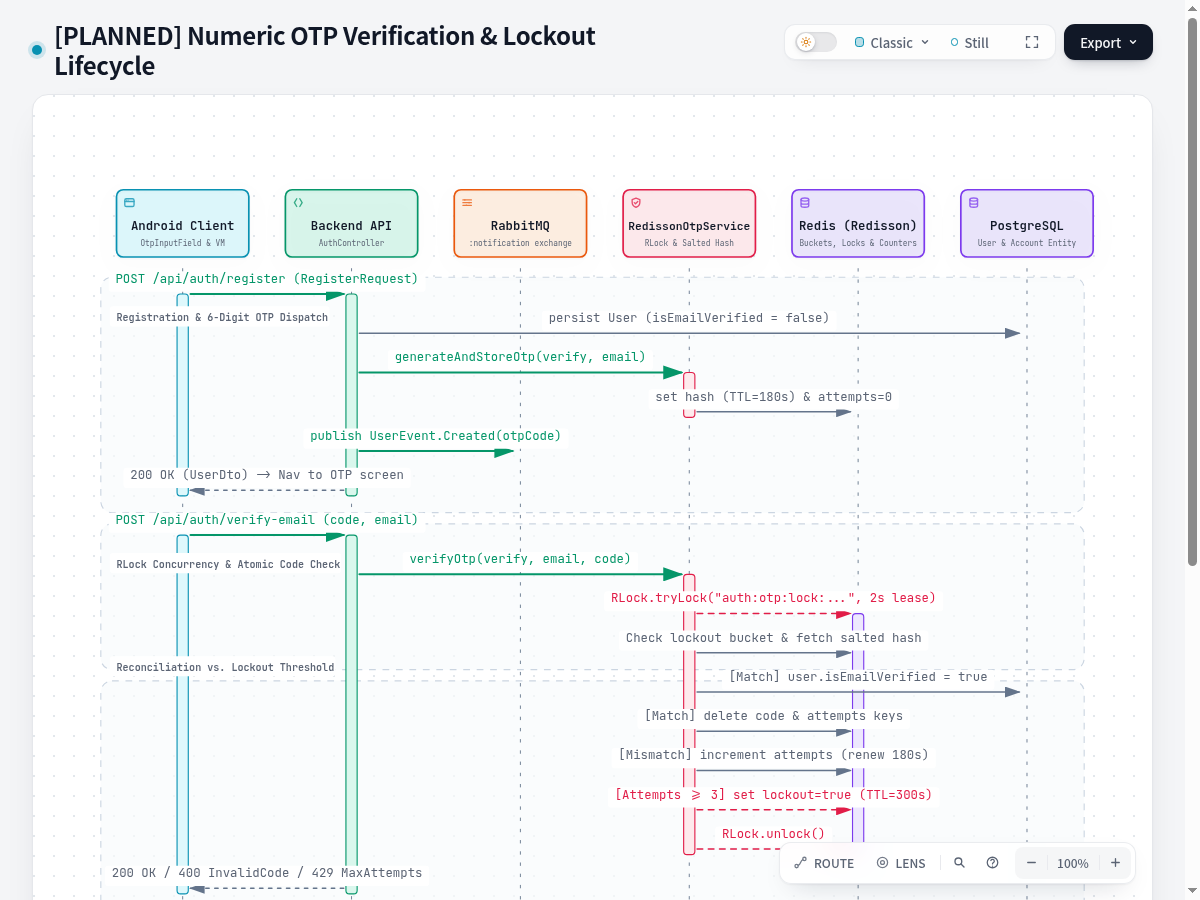
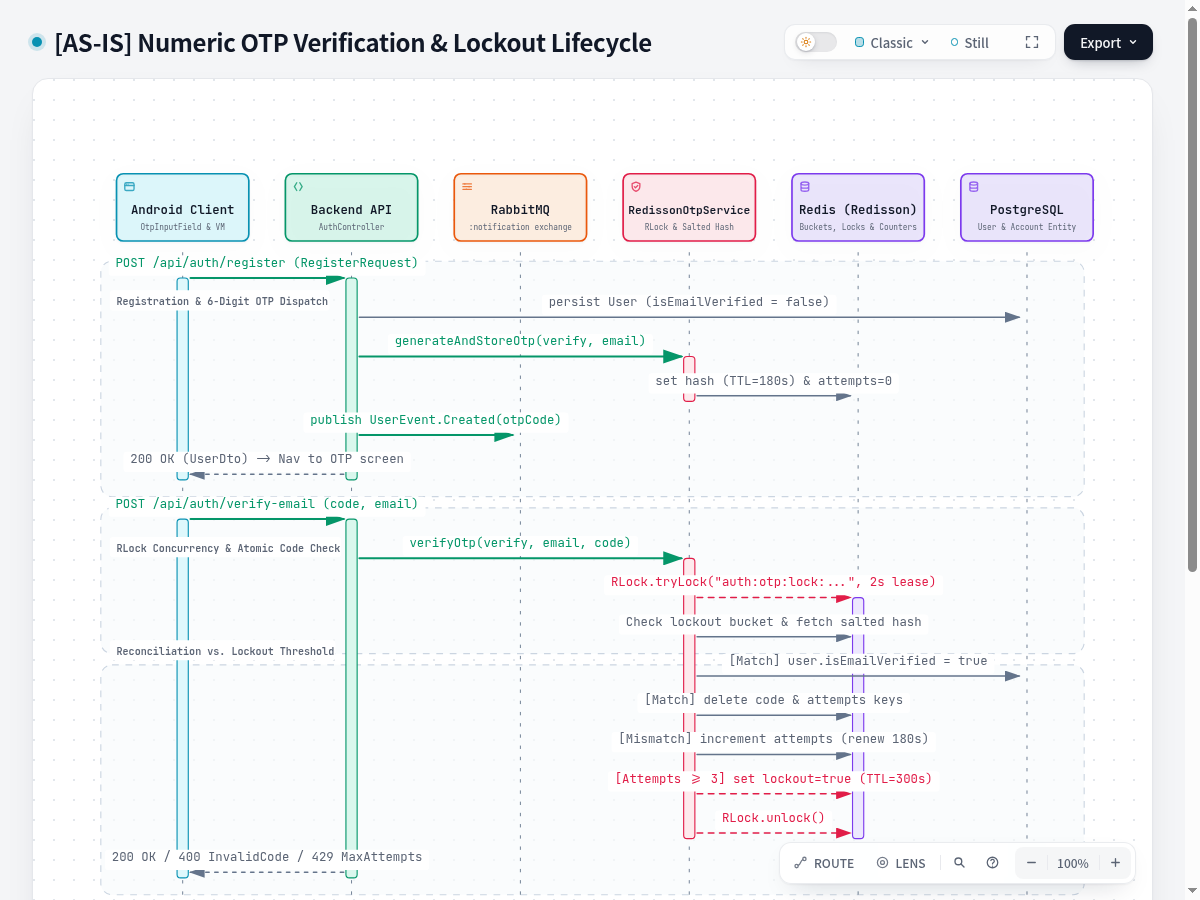
docs(otp): mark OTP verification design Implemented and sync AS-IS diagram
- Prune Detailed Implementation Plan and Verification Plan scaffolding from otp-email-verification.md, update status to Implemented, and align lockout/theme wording.
- Flip otp-verification.sequence.archify.json from [PLANNED] to [AS-IS] and re-render HTML and dark/light PNG assets.
- Update OTP sequence and design status badges to [AS-IS] / Implemented in docs/README.md.

Assisted-by: Gemini 4 Hydrogen

diff --git a/docs/architecture/interactive/flows/otp-verification.html b/docs/architecture/interactive/flows/otp-verification.html
@@ -5,7 +5,7 @@
   <meta name="viewport" content="width=device-width, initial-scale=1.0">
   <meta name="generator" content="archify 3.2.0">
   <meta name="archify-reader-contract" content="declared-wide-v1">
-  <title>[PLANNED] Numeric OTP Verification &amp; Lockout Lifecycle Diagram</title>
+  <title>[AS-IS] Numeric OTP Verification &amp; Lockout Lifecycle Diagram</title>
   <script>
     // Resolve the theme before first paint so light-preference users don't
     // see a dark flash. The toolbar script below re-applies with UI state.
@@ -5194,7 +5194,7 @@ OTHER DEALINGS IN THE FONT SOFTWARE.
            data-preset-badge-blueprint="BLUEPRINT / REV 01"
            data-preset-badge-editorial="EDITORIAL / FIELD NOTE">
         <div class="pulse-dot"></div>
-        <h1>[PLANNED] Numeric OTP Verification &amp; Lockout Lifecycle</h1>
+        <h1>[AS-IS] Numeric OTP Verification &amp; Lockout Lifecycle</h1>
       </div>
     </div>
 
@@ -5204,7 +5204,7 @@ OTHER DEALINGS IN THE FONT SOFTWARE.
     <div class="diagram-container" data-detail-level="read"
          data-preset-badge-editorial-plate="ARCHIFY / PLATE 04">
       <svg viewBox="0 0 973 813" data-sequence-column-fit="spread" data-reader-fit="width-first" role="img" lang="en" aria-labelledby="archify-diagram-title archify-diagram-description" data-animation="trace" data-preset="classic" data-quality-profile="showcase" data-motion-choreography="sequence">
-        <title id="archify-diagram-title">[PLANNED] Numeric OTP Verification &amp; Lockout Lifecycle</title>
+        <title id="archify-diagram-title">[AS-IS] Numeric OTP Verification &amp; Lockout Lifecycle</title>
         <desc id="archify-diagram-description">A sequence diagram generated by Archify.</desc>
         <!-- Definitions -->
         <defs>

diff --git a/docs/designs/otp-email-verification.md b/docs/designs/otp-email-verification.md
@@ -1,7 +1,7 @@
 # 6-Digit OTP Email Verification & Password Reset Migration
 
 * **Author:** Nero Nguyen
-* **Status:** In Review
+* **Status:** Implemented
 * **Date:** 2026-11-12
 * **Target SSOT:** `KMP-ChatContract/docs/designs/otp-email-verification.md`
 
@@ -76,7 +76,7 @@ database tables and background cleanup jobs.
 * **G5 (Token Revocation on Password Reset):** Atomically revoke all active refresh tokens in `RefreshTokenRepository`
   when a password reset succeeds, forcing re-authentication across all active client devices.
 * **G6 (Quiet Messaging UI & Lifecycle Survivability):** Build a 6-cell segmented OTP input component in
-  `Android-ChatApp` matching MCP Stitch *Quiet Messaging* design tokens. Persist cooldown target timestamps in
+  `Android-ChatApp` matching *Quiet Messaging* design tokens (`design-system.md`). Persist cooldown target timestamps in
   `SavedStateHandle` to survive configuration changes and process death, with zero silent network retries.
 * **G7 (Cross-Repo SSOT Governance):** Maintain the master EGM design specification in
   `KMP-ChatContract/docs/designs/otp-email-verification.md` and sequence diagram in
@@ -98,7 +98,7 @@ database tables and background cleanup jobs.
 ## Open Questions
 
 * *(All primary architectural contradictions were resolved during the EGM Brainstorm & Multi-Lens Review phases:
-  Redisson chosen over PostgreSQL; 3-min TTL + 3 attempts + 15-min lockout selected; password oracle prevented via
+  Redisson chosen over PostgreSQL; 3-min TTL + 3 attempts + 5-min lockout selected; password oracle prevented via
   post-OTP equality checks; Arrow Either types adopted; master spec anchored in KMP-ChatContract).*
 
 --------------------------------------------------------------------------------
@@ -124,7 +124,7 @@ database tables and background cleanup jobs.
     3. Android navigates Alice to `LoginScreen` with email pre-filled and an inline confirmation banner: *"Email
        verified successfully. Please log in."*
 
-### CUJ 2: Brute-Force Defense & 15-Minute Lockout
+### CUJ 2: Brute-Force Defense & 5-Minute Lockout
 
 * **Given**: An attacker attempts to guess Alice's 6-digit email verification OTP.
 * **When**:
@@ -135,8 +135,8 @@ database tables and background cleanup jobs.
     2. The 3rd incorrect attempt immediately deletes the OTP code key, resets the attempt counter, sets
        `auth:otp:lockout:verify:alice@example.com` (`RBucket<Boolean>` = `true`) with 5-minute (300s) TTL, and returns
        `429 Too Many Requests` with `AuthServerError.MaxAttemptsExceeded`.
-    3. Any subsequent verification attempt within 15 minutes returns `429 Too Many Requests`.
-    4. Any resend verification attempt (`POST /api/auth/resend-verification`) within 15 minutes silently returns
+    3. Any subsequent verification attempt within 5 minutes returns `429 Too Many Requests`.
+    4. Any resend verification attempt (`POST /api/auth/resend-verification`) within 5 minutes silently returns
        `204 No Content` to preserve the anti-enumeration invariant.
 
 ### CUJ 3: Forgot Password Recovery & Global Session Revocation (Anti-Oracle Protection)
@@ -368,275 +368,3 @@ To prevent concurrent brute-force race conditions where parallel HTTP requests a
     * 8 digits: High cognitive friction for mobile users memorizing and re-typing codes from email notifications.
 * **Reason for Rejection**: *Rejected by author: 6 digits ($10^6$) represents the industry-standard balance between
   usability and cryptographic entropy when paired with attempt caps and lockouts.*
-
---------------------------------------------------------------------------------
-
-## Detailed Implementation Plan
-
-The implementation is executed in three strictly sequenced phases following the dependency graph
-(`KMP-ChatContract` $\to$ `KMP-ChatBackend` $\to$ `Android-ChatApp`).
-
-```text
-┌────────────────────────────────┐
-│   Phase 1: KMP-ChatContract    │  Wire DTOs, Validation, Error Codes, Golden Snapshots
-└────────────────┬───────────────┘
-                 │ (Publishes or local Gradle reference)
-                 ▼
-┌────────────────────────────────┐
-│    Phase 2: KMP-ChatBackend    │  RedissonOtpService, Controller Refactor, DB Cleanup, Events
-└────────────────┬───────────────┘
-                 │ (Exposes OpenAPI / Mock endpoints)
-                 ▼
-┌────────────────────────────────┐
-│    Phase 3: Android-ChatApp    │  OtpInputField, Screens, SavedStateHandle, Arrow Either
-└────────────────────────────────┘
-```
-
-### Phase 1: `KMP-ChatContract` (Wire DTOs & Error Hierarchy)
-
-#### 1. `contract/auth/src/main/kotlin/io/github/neronguyenvn/nerochat/contract/auth/VerifyEmailRequest.kt` (Create)
-
-* **Type / Scope**: Kotlin Wire DTO (`contract:auth`).
-* **Proposed Changes**: Define
-  `@Serializable data class VerifyEmailRequest(val email: String, val code: String) : Validatable<AuthValidationError.VerifyEmail>`.
-  Implement validation ensuring email is valid and `code` satisfies `validateOtpCode`. Redact sensitive fields in
-  `toString()`.
-
-#### 2. `contract/auth/src/main/kotlin/io/github/neronguyenvn/nerochat/contract/auth/ResetPasswordRequest.kt` (Modify)
-
-* **Type / Scope**: Kotlin Wire DTO (`contract:auth`).
-* **Proposed Changes**: Update fields to `(val email: String, val code: String, val newPassword: String)`. Add
-  validation for `email`, `code` (`validateOtpCode`), and `newPassword`. Redact `newPassword` and `code` in
-  `toString()`.
-
-#### 3. `validation/auth/src/main/kotlin/io/github/neronguyenvn/nerochat/contract/validation/auth/AuthValidator.kt` (Modify)
-
-* **Type / Scope**: Pure Kotlin Validation Library (`validation:auth`).
-* **Proposed Changes**: Add `fun validateOtpCode(code: String): AuthValidationError?` enforcing exactly 6 ASCII digits
-  (`code.length == 6 && code.all { it in '0'..'9' }`). Add
-  `fun validateVerifyEmail(email: String, code: String): List<AuthValidationError.VerifyEmail>` and update
-  `validateResetPassword`.
-
-#### 4. `validation/auth/src/main/kotlin/io/github/neronguyenvn/nerochat/contract/validation/auth/AuthValidationError.kt` (Modify)
-
-* **Type / Scope**: Sealed ValidationError hierarchy (`validation:auth`).
-* **Proposed Changes**: Define sub-interface `sealed interface VerifyEmail : AuthValidationError`. Add sealed subclasses
-  `EmptyOtpCode`, `InvalidOtpLength`, and `NonNumericOtp` implementing both `VerifyEmail` and `ResetPassword`. Update
-  `ResetPassword` to incorporate `EmptyEmail` and `InvalidEmail`.
-
-#### 5. `contract/auth/src/main/kotlin/io/github/neronguyenvn/nerochat/contract/auth/error/AuthServerError.kt` (Modify)
-
-* **Type / Scope**: Sealed ServerError hierarchy (`contract:auth`).
-* **Proposed Changes**:
-    - Under `sealed interface VerifyEmail : AuthServerError`: Add `data object InvalidCode`, `data object CodeExpired`,
-      `data object MaxAttemptsExceeded`. Register in companion `ErrorContract<VerifyEmail>`. Remove `InvalidToken` from
-      `VerifyEmail` hierarchy.
-    - Under `sealed interface ResetPassword : AuthServerError`: Add `data object InvalidCode`,
-      `data object CodeExpired`, `data object MaxAttemptsExceeded`. Register in companion
-      `ErrorContract<ResetPassword>`. Remove `InvalidToken` from `ResetPassword` hierarchy.
-
-#### 6. `contract/auth/src/test/resources/auth-error-codes-golden.txt` & `contract/chat/src/test/resources/error-codes-golden.txt` (Modify)
-
-* **Type / Scope**: Golden error code snapshots.
-* **Proposed Changes**: Append the new error codes to pass binary compatibility and completeness assertions
-  (`apiCheck`).
-
-#### 7. `docs/architecture/specifications/flows/otp-verification.sequence.archify.json` (Create)
-
-* **Type / Scope**: Archify Sequence Diagram Specification (`docs/architecture/`).
-* **Proposed Changes**: Define the end-to-end `[PLANNED]` sequence spec for OTP registration and password recovery.
-
-#### 8. Module Contracts (`contract/auth/README.md`, `validation/auth/README.md`, `docs/README.md`) (Modify)
-
-* **Type / Scope**: Module boundary contracts and unified documentation index.
-* **Proposed Changes**: Document new DTOs, validator functions, and register `otp-verification.sequence.archify.json`
-  and this design document.
-
----
-
-### Phase 2: `KMP-ChatBackend` (Redisson OTP Services, Events & Database Purge)
-
-#### 9. `common/src/main/kotlin/io/github/neronguyenvn/nerochat/domain/event/UserEvent.kt` (Modify)
-
-* **Type / Scope**: Cross-cutting AMQP Domain Event (`:common`).
-* **Proposed Changes**: In `UserEvent.Created` and `UserEvent.RequestResendVerification`, replace
-  `verificationToken: String` with `otpCode: String`. In `UserEvent.RequestResetPassword`, replace
-  `passwordResetToken: String` with `otpCode: String`.
-
-#### 10. `user/src/main/kotlin/io/github/neronguyenvn/nerochat/user/service/RedissonOtpService.kt` (Create)
-
-* **Type / Scope**: Spring Service (`:user`).
-* **Proposed Changes**: Implement zero-padded OTP generation
-  (`String.format("%06d", SecureRandom().nextInt(1_000_000))`), peppered SHA-256 hashing, storage in `RBucket<String>`
-  with 180s TTL, attempt counting via `RAtomicLong` with explicit 180s renewal, lockout via `RBucket<Boolean>` (`true`)
-  with 300s (5 min) TTL, and concurrency protection via `RLock` (`waitTime = 2s`, `leaseTime = 2s`). In `generateAndStoreOtp(type, email)`: if `lockout` key is present, suppress generation (silent return for anti-enumeration); otherwise store new code hash with 180s TTL and explicitly reset/delete `attempts` counter to 0 so fresh code receives 3 attempts.
-
-#### 11. `user/src/main/kotlin/io/github/neronguyenvn/nerochat/user/service/EmailVerificationService.kt` (Modify)
-
-* **Type / Scope**: Spring Service (`:user`).
-* **Proposed Changes**: Drop dependency on `AuthTokenRepository`. Integrate `RedissonOtpService`. When `verifyEmail`
-  succeeds, set `user.isEmailVerified = true` in `UserRepository` and publish `UserEvent.Verified`.
-
-#### 12. `user/src/main/kotlin/io/github/neronguyenvn/nerochat/user/service/PasswordResetService.kt` (Modify)
-
-* **Type / Scope**: Spring Service (`:user`).
-* **Proposed Changes**: Drop dependency on `AuthTokenRepository`. In `resetPassword`, perform stateless password
-  validation first, verify OTP in Redis, then execute semantic `SamePasswordException` check. Upon success, update
-  password hash, delete all refresh tokens via `refreshTokenRepository.deleteByUserId`, and delete Redis OTP keys.
-
-#### 13. `user/src/main/kotlin/io/github/neronguyenvn/nerochat/user/api/controller/AuthController.kt` (Modify)
-
-* **Type / Scope**: Spring RestController (`:user`).
-* **Proposed Changes**:
-    - Change `verifyEmail` from `GET /verify-email?token=...` to `POST /verify-email` accepting
-      `@Valid @RequestBody body: VerifyEmailRequest`. Add `@IpRateLimiting`.
-    - Change `resetPassword` to accept `@Valid @RequestBody body: ResetPasswordRequest`.
-    - Preserve anti-enumeration on `resendVerification` and `forgotPassword` returning `204 No Content` uniformly (even
-      during active lockout).
-
-#### 14. `user/src/main/kotlin/io/github/neronguyenvn/nerochat/user/api/advice/AuthExceptionHandler.kt` (Modify)
-
-* **Type / Scope**: Controller Advice (`:user`).
-* **Proposed Changes**: Add handlers for `OtpExpiredException` (maps to `AuthServerError.CodeExpired`, HTTP 400),
-  `MaxAttemptsExceededException` (maps to `AuthServerError.MaxAttemptsExceeded`, HTTP 429, populating `Retry-After: <seconds>` header),
-  and a new domain exception `InvalidOtpException` (maps to `AuthServerError.InvalidCode`, HTTP 400).
-  Preserve `InvalidTokenException` (maps to `AuthServerError.InvalidToken`, HTTP 401) exclusively for JWT refresh token and logout flows.
-
-#### 15. `user/src/main/kotlin/io/github/neronguyenvn/nerochat/user/infra/database/model/AuthTokenEntity.kt` & `repository/AuthTokenRepository.kt` (Delete)
-
-* **Type / Scope**: Relational JPA Entity and Repository (`:user`).
-* **Proposed Changes**: Delete files completely. Drop `auth_tokens` table via database migration script.
-
-#### 16. `user/src/main/kotlin/io/github/neronguyenvn/nerochat/user/service/job/TokenPurgeService.kt` (Delete)
-
-* **Type / Scope**: Scheduled Cron Job (`:user`).
-* **Proposed Changes**: Delete the file and unschedule daily 03:00 ICT execution.
-
-#### 17. `notification/src/main/kotlin/io/github/neronguyenvn/nerochat/notification/listener/NotificationUserEventListener.kt` & `service/EmailService.kt` (Modify)
-
-* **Type / Scope**: RabbitMQ Listener & Email Delivery Service (`:notification`).
-* **Proposed Changes**: Pass `event.otpCode` directly into template variable maps. In `EmailService`, remove URL
-  encoding and deep link URL creation.
-
-#### 18. `notification/src/main/resources/templates/emails/account-verification.html` & `reset-password.html` (Modify)
-
-* **Type / Scope**: Thymeleaf Email Templates (`:notification`).
-* **Proposed Changes**: Replace button deep links with a high-contrast, responsive 6-digit numeric OTP callout box with
-  copy affordance and clear 3-minute validity disclaimer.
-
-#### 19. Module Contracts & API Specs (`user/README.md`, `docs/openapi.json`, `docs/README.md`) (Modify)
-
-* **Type / Scope**: Documentation and OpenAPI specifications.
-* **Proposed Changes**: Update module contracts, regenerate OpenAPI 3.0 schema and Postman collection, and catalog the
-  master design link in `docs/README.md`.
-
----
-
-### Phase 3: `Android-ChatApp` (UI, ViewModels & Arrow Either Data Layer)
-
-#### 20. `core/ui/src/main/kotlin/io/github/neronguyen/chat/core/ui/component/OtpInputField.kt` (Create)
-
-* **Type / Scope**: Shared Jetpack Compose Component (`:core:ui`).
-* **Proposed Changes**: 6 discrete cells (`48.dp` x `56.dp`) using Quiet Messaging tokens (`ChatSurface`, `ChatBorder`,
-  `ChatPrimary`). Transparent `BasicTextField` with `KeyboardType.Number` (password manager autofill disabled), driving
-  6 cell representations with animated cursor indicators. Include `@Preview` functions for empty, partial, full, and
-  error states.
-
-#### 21. `core/model/src/main/kotlin/io/github/neronguyen/chat/core/model/error/AuthError.kt` (Modify)
-
-* **Type / Scope**: Domain Error Hierarchy (`:core:model`).
-* **Proposed Changes**: Under sealed hierarchies `AuthError.VerifyEmail` and `AuthError.ResetPassword`, add
-  `InvalidCode`, `CodeExpired`, `MaxAttemptsExceeded(val retryAfterSeconds: Long?)`.
-
-#### 22. `core/data/src/main/kotlin/io/github/neronguyen/chat/core/data/mapper/AuthErrorMapper.kt` (Modify)
-
-* **Type / Scope**: Data Layer Mapper (`:core:data`).
-* **Proposed Changes**: Map contract `AuthServerError.InvalidCode`, `CodeExpired`, `MaxAttemptsExceeded`
-  to domain `AuthError` equivalents, extracting `Retry-After` header when available.
-
-#### 23. `core/network/src/main/kotlin/io/github/neronguyen/chat/core/network/retrofit/RetrofitAuthNetwork.kt` & `AuthNetworkDataSource.kt` (Modify)
-
-* **Type / Scope**: Network Layer (`:core:network`).
-* **Proposed Changes**: Update Retrofit signatures:
-    - `@POST("api/auth/verify-email") suspend fun verifyEmail(@Body request: VerifyEmailRequest): Unit`
-    - `@POST("api/auth/reset-password") suspend fun resetPassword(@Body request: ResetPasswordRequest): Unit`
-
-#### 24. `core/data/src/main/kotlin/io/github/neronguyen/chat/core/data/repository/AuthRepository.kt` & `AuthRepositoryImpl.kt` (Modify)
-
-* **Type / Scope**: Data Repository (`:core:data`).
-* **Proposed Changes**: Add Arrow `Either` signatures:
-  ```kotlin
-  suspend fun verifyEmail(email: String, code: String): Either<AuthError.VerifyEmail, Unit>
-  suspend fun resetPassword(email: String, code: String, newPassword: String): Either<AuthError.ResetPassword, Unit>
-  suspend fun resendVerification(email: String): Either<AuthError.ResendVerification, Unit>
-  suspend fun forgotPassword(email: String): Either<AuthError.ForgotPassword, Unit>
-  ```
-  Guard with offline network checks without auto-retry.
-
-#### 25. `feature/auth/src/main/kotlin/io/github/neronguyen/chat/feature/auth/presentation/verify/VerifyEmailScreen.kt`, `VerifyEmailViewModel.kt`, `VerifyEmailUiState.kt` (Create/Salvage)
-
-* **Type / Scope**: Feature UI & ViewModel (`:feature:auth`).
-* **Proposed Changes**: Build Compose screen with `OtpInputField`, email display, inline banner feedback, and a
-  declarative cooldown timer backed by `savedStateHandle["cooldown_end_epoch"]`. Automatically trigger verify when 6th
-  digit is entered. Upon success, navigate to `LoginScreen` with email and success banner.
-
[1 lines of base64/hex data omitted]
-
-* **Type / Scope**: Feature UI & ViewModels (`:feature:auth`).
-* **Proposed Changes**: Build `ForgotPasswordScreen` (email input $\to$ trigger reset OTP) and `ResetPasswordScreen`
-  (OTP input + new password + confirm new password + `SavedStateHandle` timer). Enable submit CTA only when all fields
-  validate.
-
-#### 27. `feature/auth/src/main/kotlin/io/github/neronguyen/chat/feature/auth/presentation/navigation/AuthNavigation.kt` & `AuthRoute.kt` (Modify)
-
-* **Type / Scope**: Navigation 3 / Compose Navigation (`:feature:auth`).
-* **Proposed Changes**: Add routes for `VerifyEmailRoute(val email: String)` and
-  `ResetPasswordRoute(val email: String)`. Wire navigation transitions from `RegisterScreen` and `LoginScreen`.
-
-#### 28. `app/src/main/AndroidManifest.xml` & `MainActivity.kt` (Verify)
-
-* **Type / Scope**: Android Application Configuration (`:app`).
-* **Proposed Changes**: Verify that `main` is completely free of deep link intent filters and deep link handling logic.
-
-#### 29. Module Contracts & Registry (`core/ui/README.md`, `feature/auth/README.md`, `docs/README.md`) (Modify)
-
-* **Type / Scope**: Living contracts and unified docs.
-* **Proposed Changes**: Update contracts to reflect new components, screens, and link the master design in
-  `docs/README.md`.
-
----
-
-### Verification Plan
-
-#### Tier 1: Inner-Loop Local Verification (`./scripts/verify.sh`)
-
-* **Contract**: Run `./scripts/verify.sh` in `KMP-ChatContract` (validates `test`, `apiCheck`, and golden snapshot
-  matches).
-* **Backend**: Run `./scripts/verify.sh` in `KMP-ChatBackend` (validates Redisson service tests, controller tests, and
-  rate limiting integration tests).
-* **Android**: Run `./scripts/verify.sh` in `Android-ChatApp` (validates `VerifyEmailViewModelTest`,
-  `ResetPasswordViewModelTest`, mapper tests, and Compose screenshot tests in `:core:ui`).
-
-#### Tier 2: Clean Verification Gate (`./scripts/verify.sh clean`)
-
-* Pass `./scripts/verify.sh clean` across all three repositories before committing.
-
-#### Automated End-to-End Headless Test Scenarios
-
-1. **Happy Path Registration**: Submit registration $\to$ read generated OTP from Redis $\to$ submit OTP $\to$ assert
-   `user.isEmailVerified == true` and client navigates to `LoginScreen` with success banner.
-2. **Brute-Force Lockout**: Issue 3 invalid codes $\to$ assert 3rd response is `429 MaxAttemptsExceeded` $\to$ assert
-   Redis `lockout` key exists with $\le 300s$ TTL $\to$ assert 4th request returns 429 without checking code.
-3. **Password Oracle Immunity**: Submit incorrect OTP with matching old password $\to$ assert endpoint returns
-   `400 InvalidCode`, not `400 SamePassword`.
-4. **Resend Anti-Enumeration**: Request resend on locked-out email $\to$ assert response is `204 No Content` without
-   dispatching email.
-5. **Android Process Death & UI Preservation**: Enter 4 digits $\to$ trigger configuration change / activity
-   recreation $\to$ assert 4 digits preserved $\to$ assert remaining cooldown time continues from target epoch without
-   resetting to 60s.
-6. **Screenshot Baseline Validation**: Run `./gradlew :core:ui:validateDebugScreenshotTest` to verify `OtpInputField`
-   visual states against reference goldens.
-
---------------------------------------------------------------------------------
-
-*Drafted & Reviewed with EGM*

diff --git a/docs/README.md b/docs/README.md
@@ -25,12 +25,12 @@ design documents.
 | **WebSocket Lifecycle & Backoff** | `sequence` | `[AS-IS]` | [Spec](./architecture/specifications/flows/ws-lifecycle.sequence.archify.json) · [Viewer](./architecture/interactive/flows/ws-lifecycle.html) · [Dark](./architecture/assets/ws-lifecycle.png) · [Light](./architecture/assets/ws-lifecycle.light.png)             | —                  | `:core:network` MockWebServer WS Suite & `RealtimeConnectionManagerTest` |
 | **Single-Flight Token Refresh**   | `sequence` | `[AS-IS]` | [Spec](./architecture/specifications/flows/token-refresh.sequence.archify.json) · [Viewer](./architecture/interactive/flows/token-refresh.html) · [Dark](./architecture/assets/token-refresh.png) · [Light](./architecture/assets/token-refresh.light.png)         | —                  | `TokenAuthenticatorTest` & `RetrofitAuthNetworkTest`                     |
 | **Optimistic Send & Idempotency** | `sequence` | `[AS-IS]` | [Spec](./architecture/specifications/flows/optimistic-send.sequence.archify.json) · [Viewer](./architecture/interactive/flows/optimistic-send.html) · [Dark](./architecture/assets/optimistic-send.png) · [Light](./architecture/assets/optimistic-send.light.png) | —                  | `ChatMessageRepositoryTest` & Backend `ChatWebSocketHandlerTest`         |
-| **Numeric OTP Verification & Lockout** | `sequence` | `[PLANNED]` | [Spec](./architecture/specifications/flows/otp-verification.sequence.archify.json) · [Viewer](./architecture/interactive/flows/otp-verification.html) · [Dark](./architecture/assets/otp-verification.png) · [Light](./architecture/assets/otp-verification.light.png) | [otp-email-verification](designs/otp-email-verification.md) | Backend `EmailVerificationServiceTest` & `:feature:auth` UI Tests |
+| **Numeric OTP Verification & Lockout** | `sequence` | `[AS-IS]`   | [Spec](./architecture/specifications/flows/otp-verification.sequence.archify.json) · [Viewer](./architecture/interactive/flows/otp-verification.html) · [Dark](./architecture/assets/otp-verification.png) · [Light](./architecture/assets/otp-verification.light.png) | [otp-email-verification](designs/otp-email-verification.md) | Backend `EmailVerificationServiceTest` & `:feature:auth` UI Tests |
 
 ---
 
 ## 3. Technical Design Documents (EGM)
 
-| Design Document                                                                          | Date       | Status  | Target Modules                                                 | Linked Archify Specs                                                                                       | Summary                                                                              |
-|------------------------------------------------------------------------------------------|------------|---------|----------------------------------------------------------------|------------------------------------------------------------------------------------------------------------|--------------------------------------------------------------------------------------|
-| [**6-Digit OTP Email Verification & Password Reset**](designs/otp-email-verification.md) | 2026-11-12 | `Draft` | `:contract:auth`, `:validation:auth`, `:user`, `:feature:auth` | [`otp-verification` (Planned)](./architecture/specifications/flows/otp-verification.sequence.archify.json) | Cross-repo migration from email deep links to 6-digit OTP backed purely by Redisson. |
+| Design Document                                                                          | Date       | Status        | Target Modules                                                 | Linked Archify Specs                                                                        | Summary                                                                              |
+|------------------------------------------------------------------------------------------|------------|---------------|----------------------------------------------------------------|---------------------------------------------------------------------------------------------|--------------------------------------------------------------------------------------|
+| [**6-Digit OTP Email Verification & Password Reset**](designs/otp-email-verification.md) | 2026-11-12 | `Implemented` | `:contract:auth`, `:validation:auth`, `:user`, `:feature:auth` | [`otp-verification`](./architecture/specifications/flows/otp-verification.sequence.archify.json) | Cross-repo migration from email deep links to 6-digit OTP backed purely by Redisson. |
